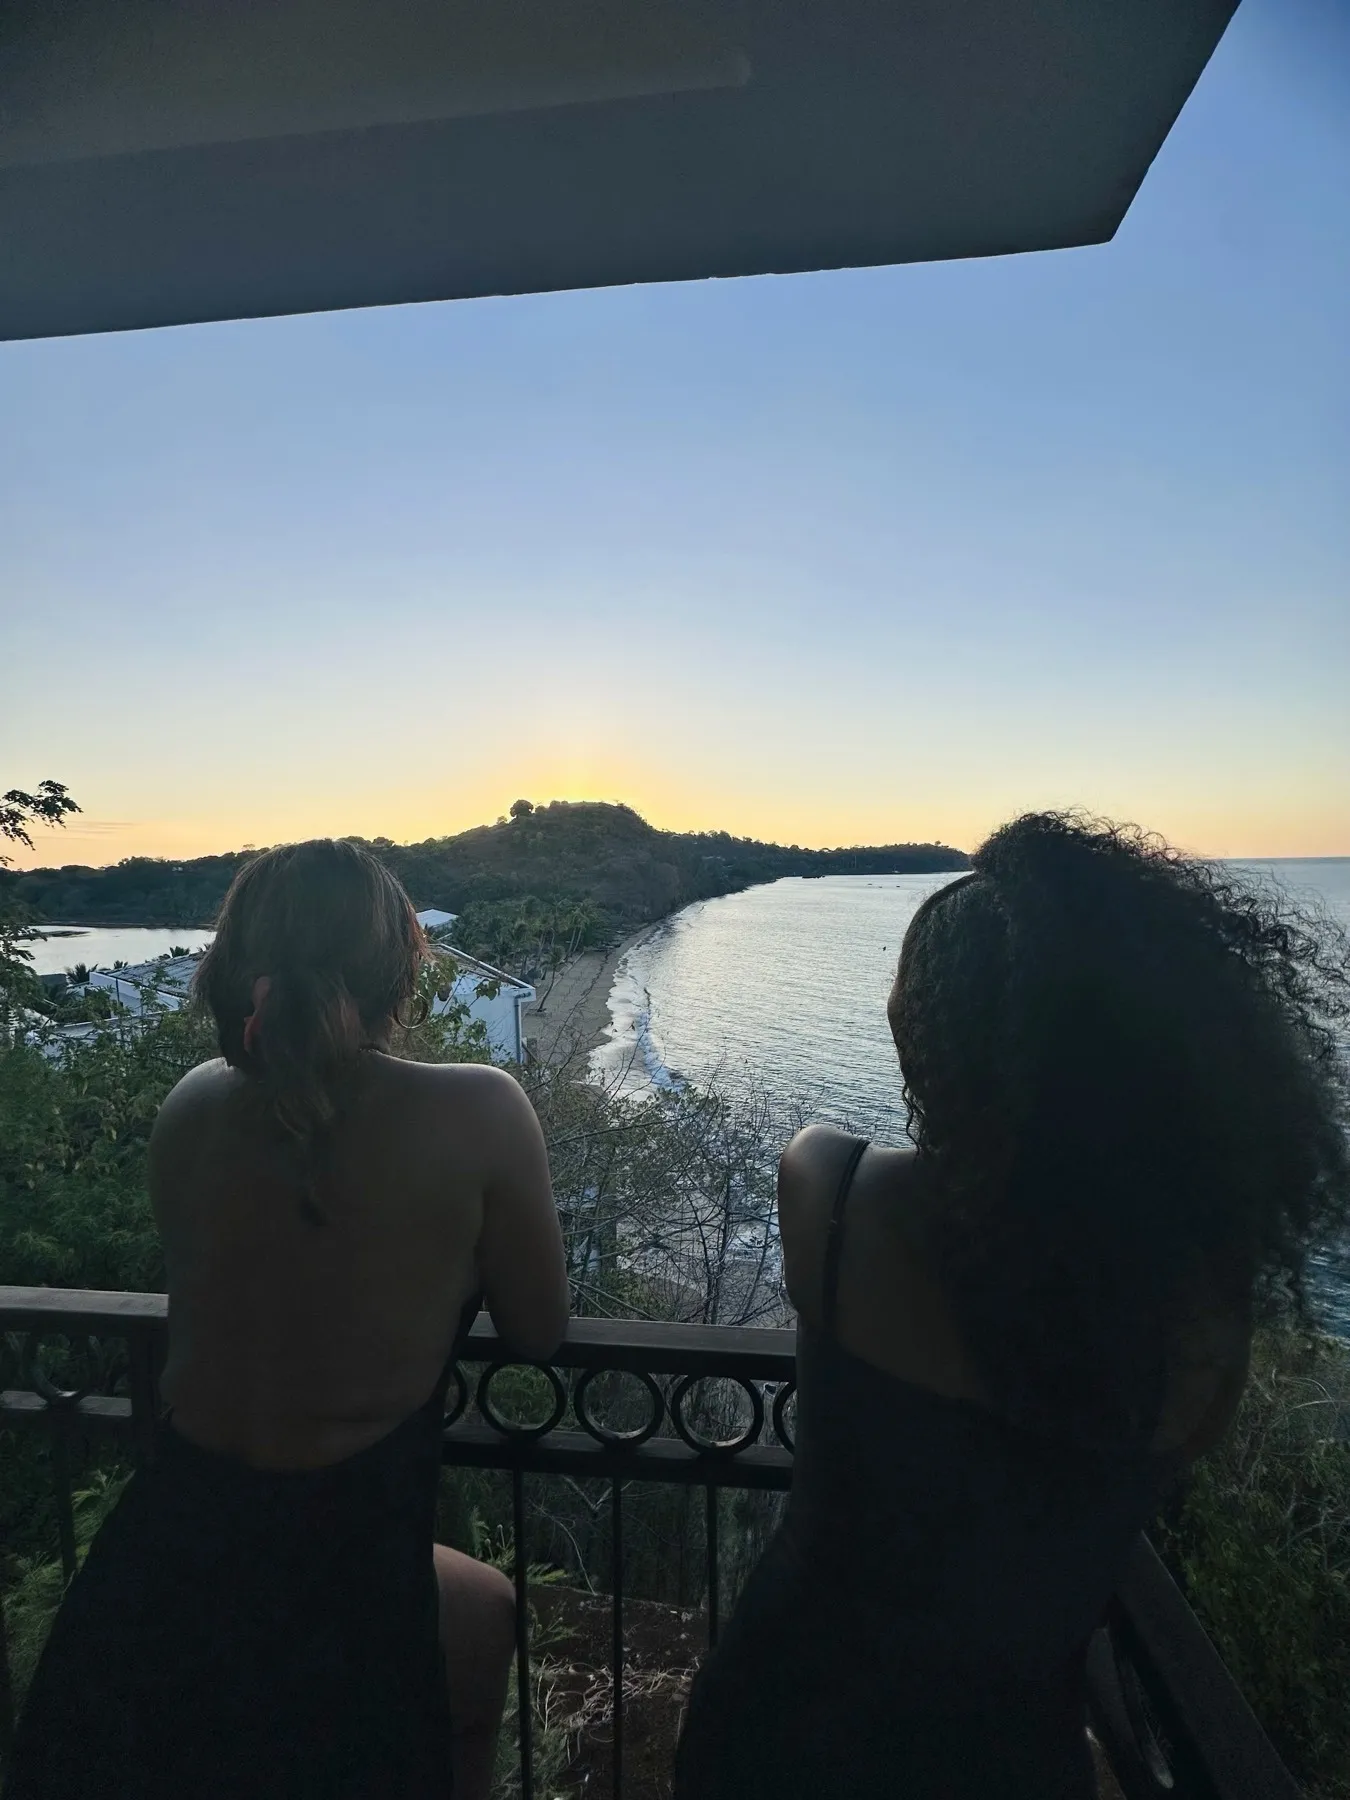
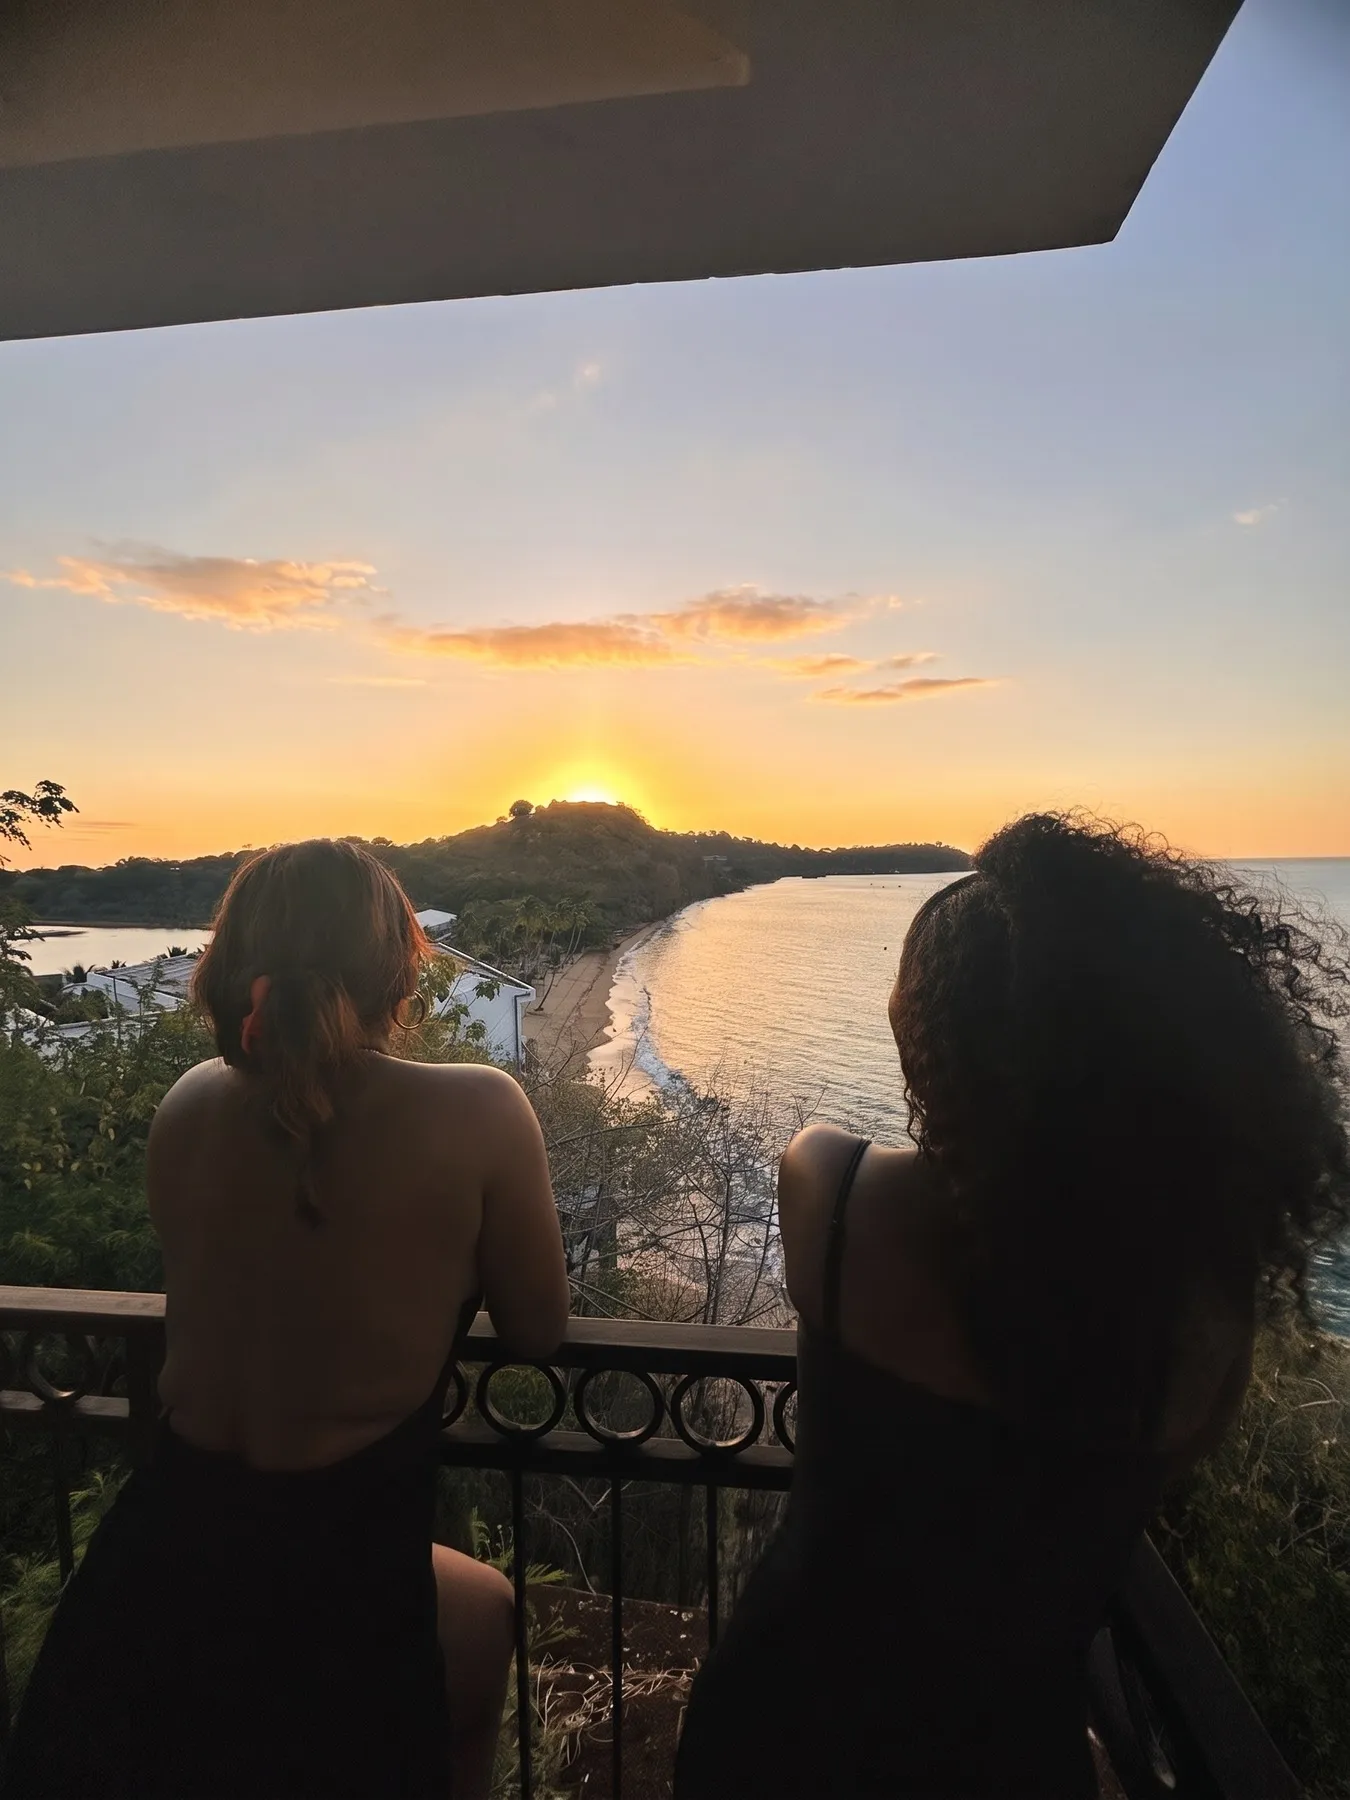
Terrasse Clair de Lune : coucher de soleil IA sur 0701, retrait 0697
- 0701 : vrai coucher de soleil généré (soleil derrière le cap, reflets dorés)
- Retire 0697 ; 0513 (table propre) passe en 2e couverture

diff --git a/index.html b/index.html
@@ -764,10 +764,10 @@
     <div class="room-photos-wrap">
       <div class="room-photos">
         <div data-reveal style="position:relative;border-radius:10px;overflow:hidden;aspect-ratio:3/4"><img class="slot" loading="lazy" decoding="async" src="images/clair-de-lune-terrasse-0516.webp" width="1350" height="1800" alt="Clair de Lune — discussion dans les fauteuils de la terrasse"></div>
-        <div data-reveal style="position:relative;border-radius:10px;overflow:hidden;aspect-ratio:3/4;margin-top:clamp(28px,5vw,64px)"><img class="slot" loading="lazy" decoding="async" src="images/clair-de-lune-terrasse-0697.webp" width="1350" height="1800" alt="Clair de Lune — un cœur avec les mains au coucher de soleil"></div>
+        <div data-reveal style="position:relative;border-radius:10px;overflow:hidden;aspect-ratio:3/4;margin-top:clamp(28px,5vw,64px)"><img class="slot" loading="lazy" decoding="async" src="images/clair-de-lune-terrasse-0513.webp" width="1350" height="1800" alt="Clair de Lune — moment de détente sur la terrasse face à la mer"></div>
       </div>
-      <button type="button" class="room-more"><span>Voir plus de photos</span> <span class="n">+7</span></button>
-      <div class="gallery-extra" hidden><img loading="lazy" decoding="async" src="images/clair-de-lune-terrasse-0513.webp" alt="Clair de Lune — moment de détente sur la terrasse face à la mer"><img loading="lazy" decoding="async" src="images/clair-de-lune-terrasse-0576.webp" alt="Clair de Lune — un verre à table face à la mer"><img loading="lazy" decoding="async" src="images/clair-de-lune-terrasse-0575.webp" alt="Clair de Lune — trinquer face à l'océan"><img loading="lazy" decoding="async" src="images/clair-de-lune-terrasse-0506.webp" alt="Clair de Lune — la vue sur la mer depuis la terrasse"><img loading="lazy" decoding="async" src="images/clair-de-lune-terrasse-9257.webp" alt="Clair de Lune — le soleil sur la baie depuis la terrasse"><img loading="lazy" decoding="async" src="images/clair-de-lune-terrasse-0699.webp" alt="Clair de Lune — un cœur avec les mains face à la mer"><img loading="lazy" decoding="async" src="images/clair-de-lune-terrasse-0701.webp" alt="Clair de Lune — le soleil descend sur la baie"></div>
+      <button type="button" class="room-more"><span>Voir plus de photos</span> <span class="n">+6</span></button>
+      <div class="gallery-extra" hidden><img loading="lazy" decoding="async" src="images/clair-de-lune-terrasse-0576.webp" alt="Clair de Lune — un verre à table face à la mer"><img loading="lazy" decoding="async" src="images/clair-de-lune-terrasse-0575.webp" alt="Clair de Lune — trinquer face à l'océan"><img loading="lazy" decoding="async" src="images/clair-de-lune-terrasse-0506.webp" alt="Clair de Lune — la vue sur la mer depuis la terrasse"><img loading="lazy" decoding="async" src="images/clair-de-lune-terrasse-9257.webp" alt="Clair de Lune — le soleil sur la baie depuis la terrasse"><img loading="lazy" decoding="async" src="images/clair-de-lune-terrasse-0699.webp" alt="Clair de Lune — un cœur avec les mains face à la mer"><img loading="lazy" decoding="async" src="images/clair-de-lune-terrasse-0701.webp" alt="Clair de Lune — le soleil descend sur la baie"></div>
     </div>
   </div>
 </section>
